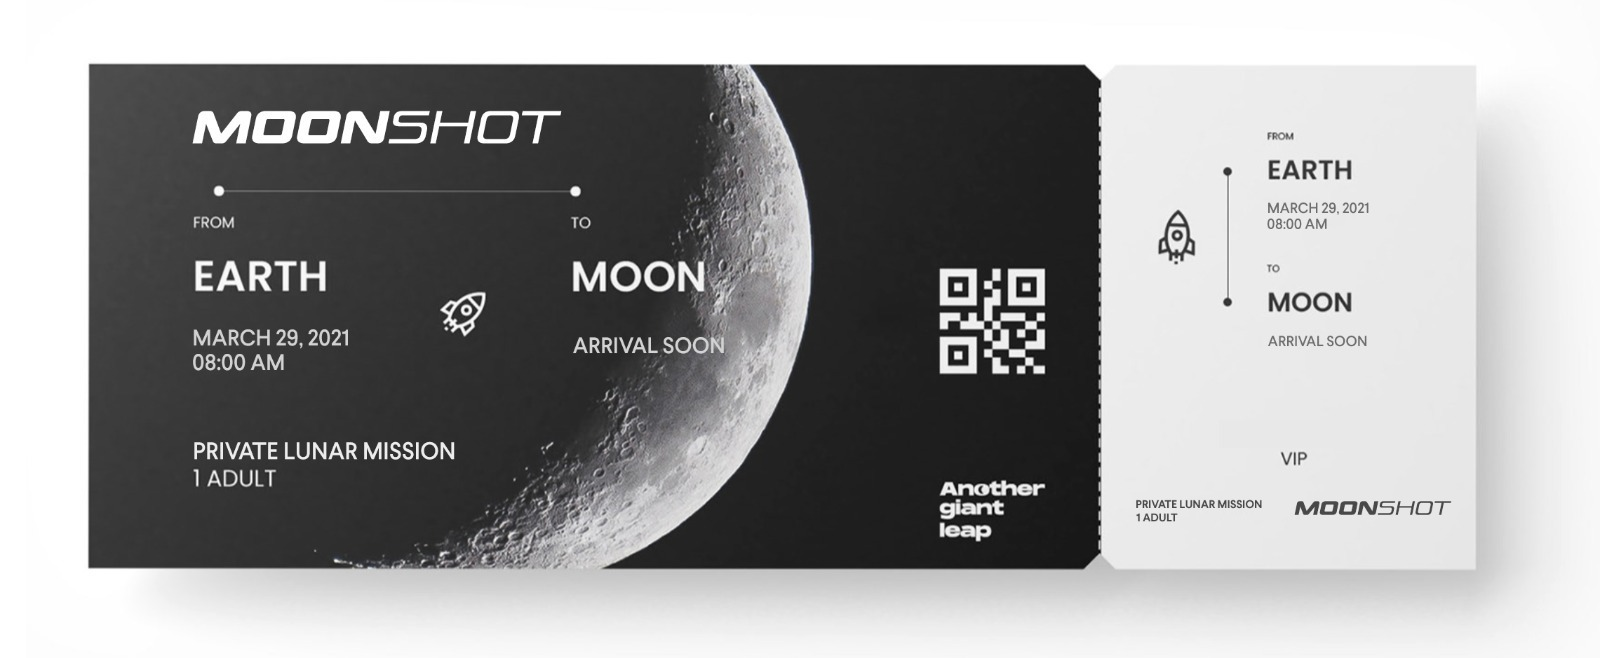
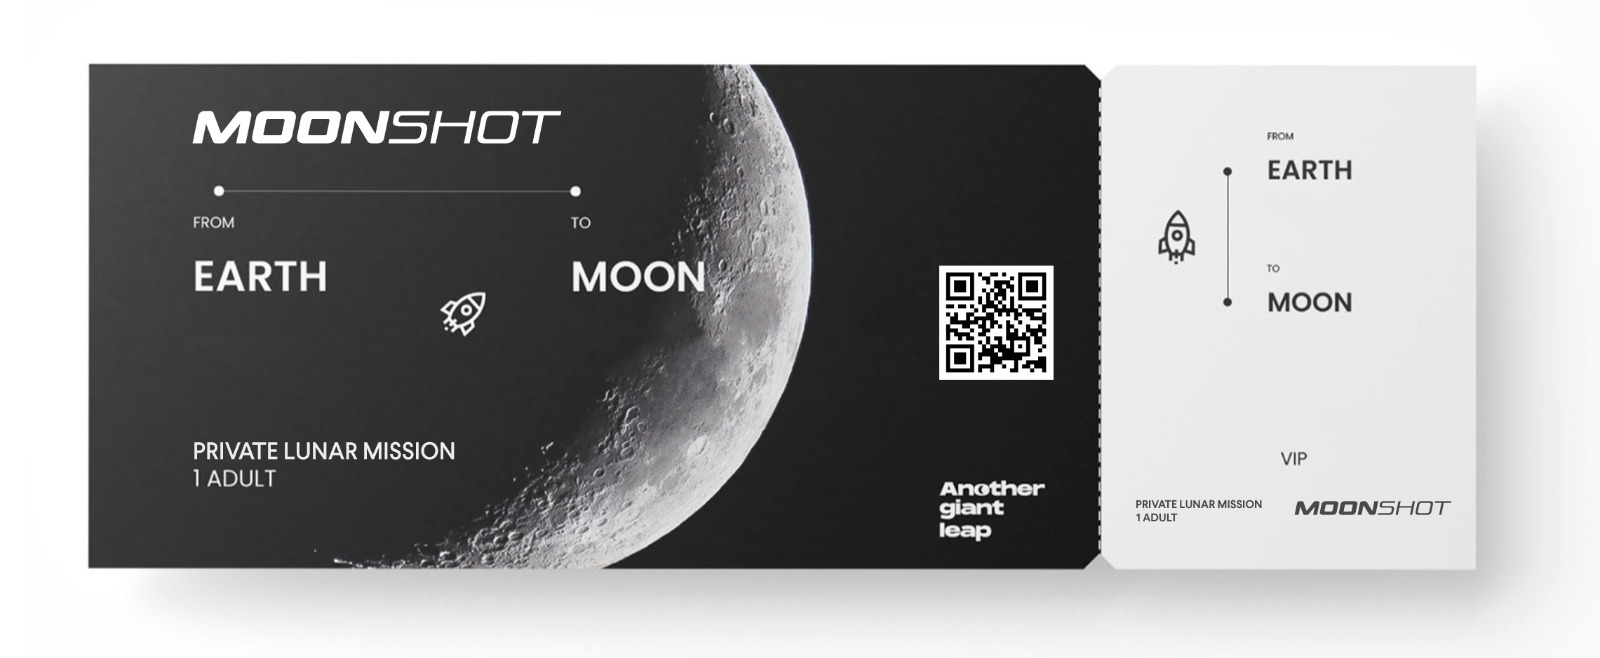
update moonticket

diff --git a/moonticket.html b/moonticket.html
@@ -76,6 +76,34 @@
 
     var fontFamily = 'pt "Futura"';
 
+    const months = {
+      0: 'JANUARY',
+      1: 'FEBRUARY',
+      2: 'MARCH',
+      3: 'APRIL',
+      4: 'MAY',
+      5: 'JUNE',
+      6: 'JULY',
+      7: 'AUGUST',
+      8: 'SEPTEMBER',
+      9: 'OCTOBER',
+      10: 'NOVEMBER',
+      11: 'DECEMBER'
+    }
+
+    function pad(n, width, z) {
+      z = z || '0';
+      n = n + '';
+      return n.length >= width ? n : new Array(width - n.length + 1).join(z) + n;
+    }
+
+    function formatAMPM(hours) {
+      var ampm = hours >= 12 ? 'PM' : 'AM';
+      hours = hours % 12;
+      hours = hours ? hours : 12; 
+      return hours + ':00 ' + ampm;
+    }
+
     function calcPointSize( size, text, ctx ) {
       let pointsize = 40;
       let itFits = false;
@@ -98,32 +126,62 @@
       
     }
 
+    function drawName(context, yourName) {
+      let pointSize = calcPointSize( 40, yourName, context );
+      console.log("Calculated point size ", pointSize);
+
+      context.font = "bold " + pointSize + fontFamily;
+      context.fillStyle = "#4b4b4b";
+
+      let x1 = 1113;
+      let y1 = 435;
+      let x2 = 1471;
+      let box_width = (1471 - 1113);
+      let text=yourName;
+      let metrics = context.measureText(text);
+      let name_width = metrics.width;
+      let left = 1113 + ( (box_width - name_width) / 2);
+          
+      context.fillText(yourName, left, 435);
+      context.imageSmoothingEnabled = true;
+    }
+
+    function drawDate(context, text, pointSize, color, x1, y1) {
+      context.font = pointSize + fontFamily;
+      context.fillStyle = color;
+      context.fillText(text, x1, y1);
+      context.imageSmoothingEnabled = true;
+    }
+
 
     function drawImage(yourName) {
-     var canvas = document.getElementById("canvas");
-     var context = canvas.getContext("2d");
-     var imageObj = new Image();
-     imageObj.onload = function(){
-         context.drawImage(imageObj, 0, 0);
-         let pointSize = calcPointSize( 40, yourName, context );
-         console.log("Calculated point size ", pointSize);
+      var canvas = document.getElementById("canvas");
+      var context = canvas.getContext("2d");
+      var imageObj = new Image();
+      imageObj.onload = function(){
+          context.drawImage(imageObj, 0, 0);
+          drawName(context, yourName);
 
-         context.font = pointSize + fontFamily;
-         context.fillStyle = "#4b4b4b";
+          let d = new Date();
+          let year = d.getFullYear();
+          let month = months[ d.getMonth() ];
+          let day = d.getDay();
+          
+          let today = month + " " + day + ", " + year;
+          let hour = pad( (d.getHours() + 1 ) % 23, 2 );
 
-         let x1 = 1113;
-         let y1 = 440;
-         let x2 = 1471;
-         let box_width = (1471 - 1113);
-         let text=yourName;
-         let metrics = context.measureText(text);
-         let name_width = metrics.width;
+          drawDate(context, today, 20, "#ffffff", 192, 345);
+          drawDate(context, formatAMPM(hour), 20, "#ffffff", 192, 372 );
+          
+          drawDate(context, "ARRIVAL SOON",20, "#ffffff", 573, 351 );
 
-         let left = 1113 + ( (box_width - name_width) / 2);
-         
-         context.fillText(yourName, left, 440);
-     };
-     imageObj.src = "img/moonticket.png"; 
+          drawDate(context, today, 14, "#4b4b4b", 1268, 212);
+          drawDate(context, formatAMPM(hour), 14, "#4b4b4b", 1268, 232);
+
+          drawDate(context, "ARRIVAL SOON", 14, "#4b4b4b", 1268, 350 );
+
+      };
+      imageObj.src = "img/moonticket-v2.png"; 
     }
  
     function textChanged(el) {

diff --git a/moonshot.html b/moonshot.html
@@ -278,7 +278,7 @@
     </div>
   </div>
   
-<!--
+
   <div class="about" id="rocketfuel">
     <h1>Fuel the Rocket</h1>
     <div class="content">
@@ -342,7 +342,7 @@
         </div>
     </div>
   </div>
--->
+
     
   <div class="about" id="buying">
     <h1>How to buy</h1>

diff --git a/css/style.css b/css/style.css
@@ -59,6 +59,11 @@ html {
     text-rendering: geometricPrecision;
  }
 
+ canvas{
+    font-smooth: never;
+    -webkit-font-smoothing : none;
+}
+
 body {
     width: 100%;
     height: auto;
